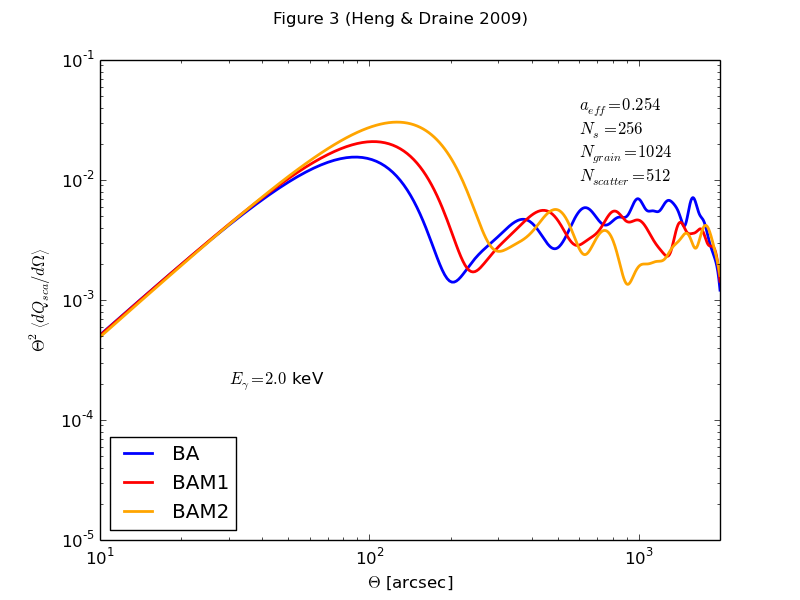
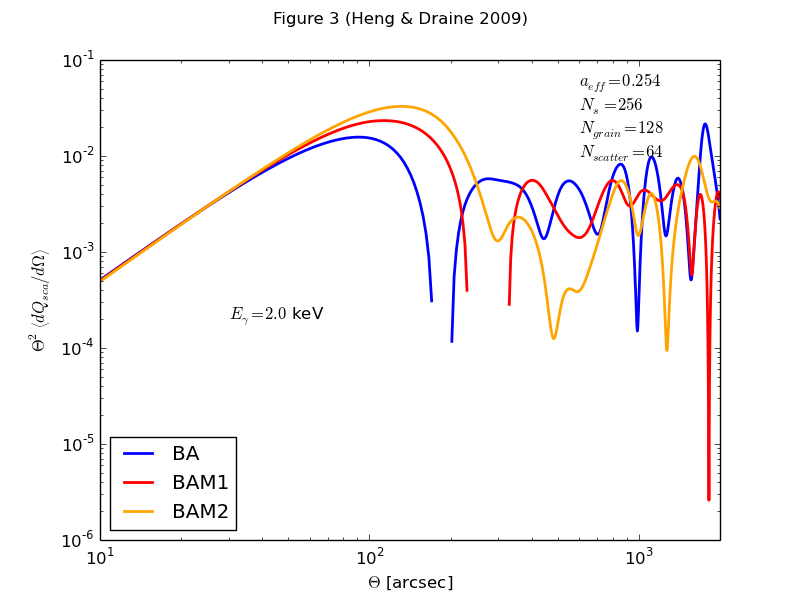
Edited plot_utilities to give correct shape for get_1d_slice function. Tested that the indexing shortcut in phi_spheres works correctly. Tested results for spheres module doing single sphere (by eye). HD09 is still not consistent with what we're getting at large angles, even after using a very fine 

diff --git a/scripts/HD09.py b/scripts/HD09.py
@@ -25,8 +25,8 @@ defaults = {
 			    'ephot' 				: 2.0,
 			    'ior-re' 				: -1.920*pow(10.0,-4.0),
 			    'ior-im' 				: 2.807*pow(10.0,-5.0),
-			    'ngrain' 				: 1024,
-			    'nscatter'				: 512,
+			    'ngrain' 				: 128,
+			    'nscatter'				: 64,
 			    'norientations'			: 1,
 			    'euler-angle-mode'		: 'random',
 			    'euler-angle-file'		: None,
@@ -118,6 +118,11 @@ theta_3BA,avg_3BA,var_3BA = pu.get_1d_avg(func_3BA)
 theta_3BAM1,avg_3BAM1,var_3BAM1 = pu.get_1d_avg(func_3BAM1)
 theta_3BAM2,avg_3BAM2,var_3BAM2 = pu.get_1d_avg(func_3BAM2)
 
+#theta_3BA,avg_3BA = pu.get_1d_slice(func_3BA)
+#theta_3BAM1,avg_3BAM1 = pu.get_1d_slice(func_3BAM1)
+#theta_3BAM2,avg_3BAM2 = pu.get_1d_slice(func_3BAM2)
+
+#print theta_3BA.shape, avg_3BA.shape
 
 Figure3 = plt.figure(1)
 ax3 = Figure3.add_subplot(111)
@@ -129,6 +134,7 @@ ax3.text(600,pow(10,-2),"$a_{eff}=%.3f$\n$N_s=%d$\n$N_{grain}=%d$\n$N_{scatter}=
 
 ax3.set_xlabel("$\\Theta$ [arcsec]")
 ax3.set_ylabel("$\\Theta^2\\left<dQ_{sca}/d\\Omega\\right>$")
+#ax3.plot(theta_3BA,np.multiply(np.power(theta_3BA/pu.conv,2),avg_3BA),label='BA',color='blue',lw=2)
 ax3.plot(theta_3BA,np.multiply(np.power(theta_3BA/pu.conv,2),avg_3BA),label='BA',color='blue',lw=2)
 #ax3.fill_between(theta_3BA,np.multiply(np.power(theta_3BA/pu.conv,2),avg_3BA-var_3BA),np.multiply(np.power(theta_3BA/pu.conv,2),avg_3BA+var_3BA),facecolor='blue',alpha=0.3)
 

diff --git a/scripts/plot_utilities.py b/scripts/plot_utilities.py
@@ -147,7 +147,9 @@ def get_1d_slice(data_function,phi=0.0,boundaries=[-2000,2000,-2000,2000]):
 
 	theta_arr = np.linspace(xmin,xmax,1000)
 	
-	z_plot = np.array([ data_function(th*cos(phi),th*sin(phi)) for th in theta_arr ])
+	z_plot = np.zeros(len(theta_arr))
+	for i in range(0,len(theta_arr)):
+		z_plot[i] = data_function(theta_arr[i]*cos(phi),theta_arr[i]*sin(phi))
 
 	return theta_arr,z_plot
 
